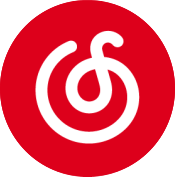
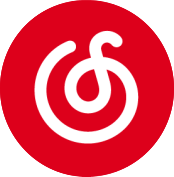
add remix

diff --git a/src/apps.config.js b/src/apps.config.js
@@ -1,5 +1,6 @@
 import displayNetease from './components/apps/netease';
 import displayTiktok from './components/apps/tiktok';
+import displayRemix from './components/apps/remix';
 import displayVsCode from './components/apps/vscode';
 import displayWeFront from './components/apps/webaseFront';
 import { displayTerminal } from './components/apps/terminal';
@@ -35,6 +36,15 @@ const apps = [
         favourite: true,
         desktop_shortcut: false,
         screen: displayTerminal,
+    },
+    {
+        id: "remix",
+        title: "Remix",
+        icon: './themes/Yaru/apps/remix.png',
+        disabled: false,
+        favourite: true,
+        desktop_shortcut: false,
+        screen: displayRemix,
     },
     {
         id: "wefront",
@@ -111,7 +121,9 @@ const urls = {
         // terminal url
         terminal: 'http://182.92.219.88:100/',
         // tiktok url
-        tiktok: 'https://www.douyin.com/recommend'
+        tiktok: 'https://www.douyin.com/recommend',
+        // remix url
+        remix: 'https://remix.ethereum.org/'
     },
     staticUrl: {
         repo: 'https://github.com/WeLightProject/WeLightBlockchainOS',

diff --git a/src/components/apps/remix.js b/src/components/apps/remix.js
@@ -1,0 +1,13 @@
+import {urls} from '../../apps.config'
+
+export default function Remix() {
+    const remix = urls.appUrl.remix
+
+    return (
+        <iframe src={remix} frameBorder="0" title="Terminal" className="h-full w-full bg-ub-cool-grey"></iframe>
+    )
+}
+
+export const displayRemix = () => {
+    return <Remix></Remix>
+}
